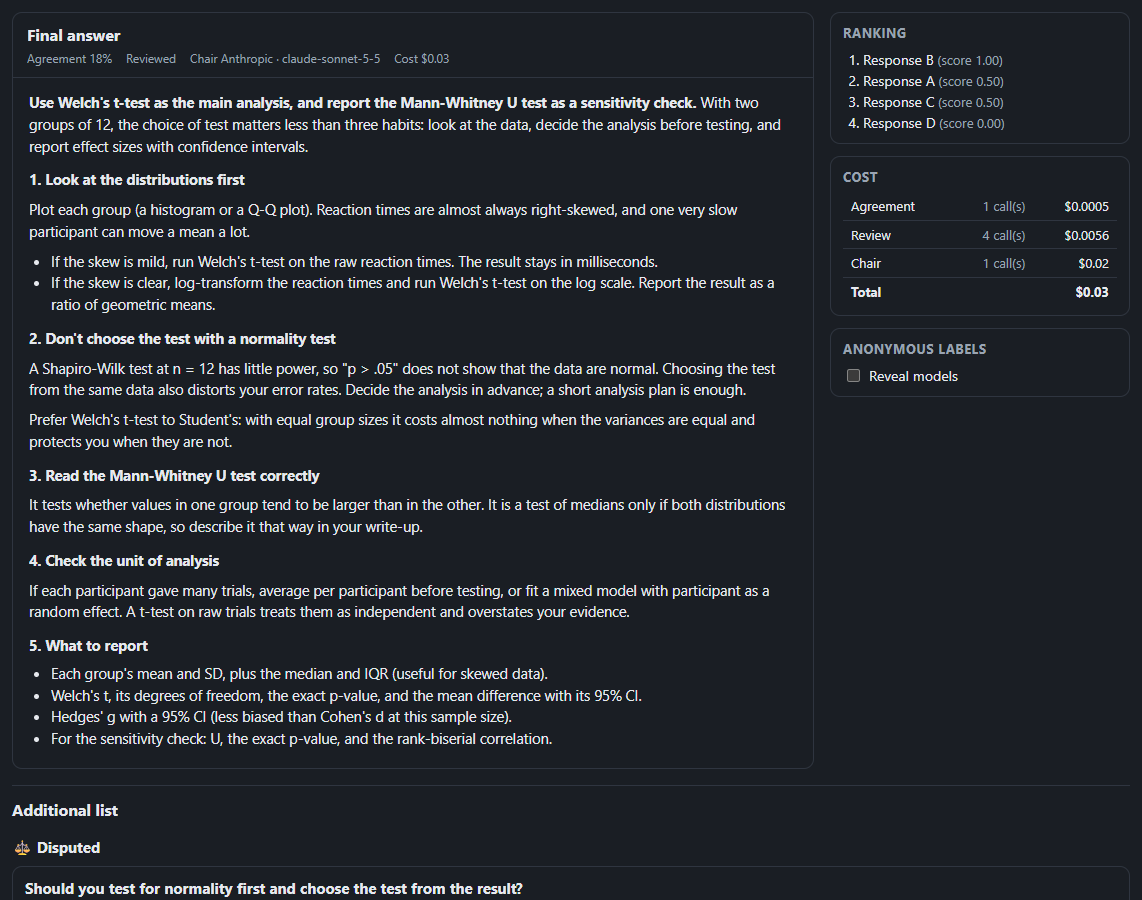
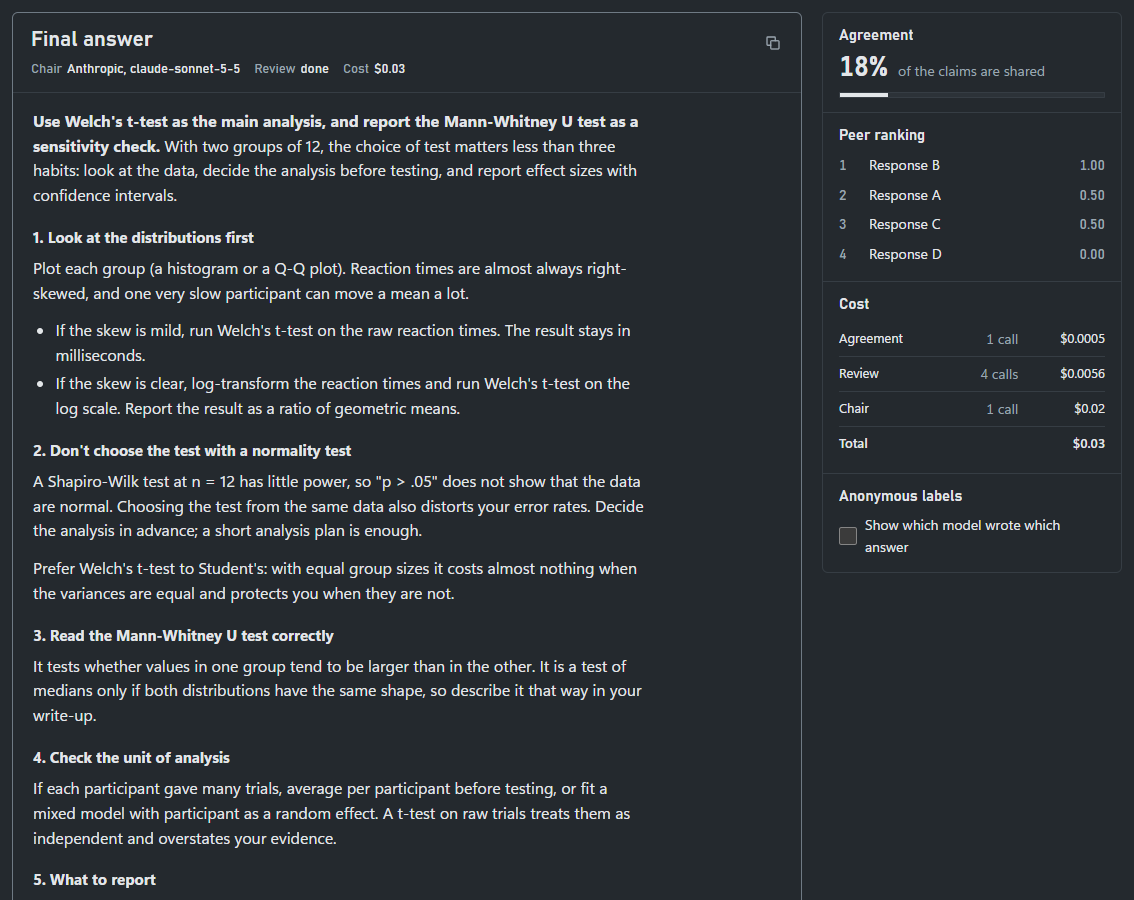
fix(ui): keep loose ordered lists together; refresh README media
- Markdown renderer: a blank line between list items no longer starts a new
  list ("1. 1. 1." became "1. 2. 3."); ordered lists keep their start number.
- Capture script hides the fixed cost strip during element stills.
- README media regenerated from the redesigned UI; README mentions copy,
  export and Ctrl+Enter.

diff --git a/src/llm_crossjury/web/static/app.js b/src/llm_crossjury/web/static/app.js
@@ -1496,6 +1496,12 @@
 
   const TABLE_RULE = /^\s*\|?\s*:?-{2,}:?\s*(\|\s*:?-{2,}:?\s*)*\|?\s*$/;
 
+  function newList(tag, marker) {
+    // An ordered list keeps its first number (e.g. a list that starts at "3.").
+    const n = parseInt(marker, 10);
+    return tag === "ol" && n > 1 ? el("ol", { start: String(n) }) : el(tag);
+  }
+
   function renderMarkdown(text) {
     const root = el("div", { class: "md" });
     const lines = String(text || "").split(/\r?\n/);
@@ -1551,7 +1557,7 @@
         while (lists.length > 1 && indent < lists[lists.length - 1].indent) lists.pop();
         const top = lists[lists.length - 1];
         if (!top) {
-          lists.push({ node: el(tag), indent: indent });
+          lists.push({ node: newList(tag, item[2]), indent: indent });
         } else if (indent > top.indent + 1 && lists.length < 3 && top.node.lastElementChild) {
           const nested = el(tag);
           top.node.lastElementChild.append(nested);
@@ -1559,7 +1565,7 @@
         } else if (top.node.tagName.toLowerCase() !== tag) {
           if (lists.length === 1) {
             flushList();
-            lists.push({ node: el(tag), indent: indent });
+            lists.push({ node: newList(tag, item[2]), indent: indent });
           } else {
             lists.pop();
             const nested = el(tag);
@@ -1573,7 +1579,9 @@
         if (!quote) quote = [];
         quote.push(quoted[1]);
       } else if (line.trim() === "") {
-        flushAll();
+        // A blank line ends paragraphs and quotes; a list stays open so that a loose
+        // list ("1. a", blank, "2. b") renders as one list. Any non-item line closes it.
+        flushPara(); flushQuote();
       } else if (lists.length && /^\s+\S/.test(line)) {
         const li = lists[lists.length - 1].node.lastElementChild;
         if (li) li.append(document.createTextNode(" "), ...inlineNodes(line.trim()));

diff --git a/scripts/capture_readme_media.py b/scripts/capture_readme_media.py
@@ -601,6 +601,13 @@ def make_samples(directory: Path) -> list[Path]:
 # --------------------------------------------------------------------------- flows
 
 
+_FIXED_CHROME_JS = (
+    "document.querySelectorAll('footer.strip').forEach("
+    "(e) => {{ e.style.visibility = '{value}'; }})"
+)
+"""Hide (``hidden``) or restore (``""``) the fixed bottom strip of the compare page."""
+
+
 @dataclass
 class Shots:
     """Writes light and dark stills of the current state."""
@@ -610,15 +617,21 @@ class Shots:
     written: list[Path] = field(default_factory=list)
 
     def capture(self, name: str, key: str, *, max_height: float | None = None) -> None:
-        for dark in (False, True):
-            self.page.theme(dark)
-            time.sleep(0.15)
-            data = self.page.screenshot(self.page.clip(key, max_height=max_height))
-            self.page.screenshot()  # settle the viewport after a beyond-viewport capture
-            path = self.out / f"{name}-{'dark' if dark else 'light'}.png"
-            path.write_bytes(data)
-            self.written.append(path)
-        self.page.theme(False)
+        # Fixed-position chrome (the bottom cost strip) would be painted over the middle
+        # of an element clip; hide it for element stills (visibility keeps the layout).
+        self.page.js(_FIXED_CHROME_JS.format(value="hidden"))
+        try:
+            for dark in (False, True):
+                self.page.theme(dark)
+                time.sleep(0.15)
+                data = self.page.screenshot(self.page.clip(key, max_height=max_height))
+                self.page.screenshot()  # settle the viewport after a beyond-viewport capture
+                path = self.out / f"{name}-{'dark' if dark else 'light'}.png"
+                path.write_bytes(data)
+                self.written.append(path)
+        finally:
+            self.page.js(_FIXED_CHROME_JS.format(value=""))
+            self.page.theme(False)
 
     def capture_viewport(self, name: str) -> None:
         for dark in (False, True):

diff --git a/README.md b/README.md
@@ -46,8 +46,9 @@ subscription, and shows the cost before every run.
 
 ### Compare answers side by side
 
-Pick the models, estimate the cost, run. Each answer shows its model, token counts,
-cost and time.
+Pick the models, estimate the cost, run (Ctrl+Enter works too). Each answer shows its
+model, token counts, cost and time; copy one answer or export the whole run as
+Markdown.
 
 <picture>
   <source media="(prefers-color-scheme: dark)" srcset="docs/assets/compare-dark.png">
@@ -313,8 +314,7 @@ are placeholders for now.
 
 ## Roadmap
 
-See [docs/ROADMAP.md](docs/ROADMAP.md). Next up: the PyPI package, Markdown export and
-copy buttons, local run history, a desktop app for Windows and macOS, a redesigned UI
+See [docs/ROADMAP.md](docs/ROADMAP.md). Next up: the PyPI package, local run history, a desktop app for Windows and macOS, a redesigned UI
 with streaming answers, and the command-line `run` command with the Council and
 Document Review modes described in the [spec](docs/SPEC.md).
 
